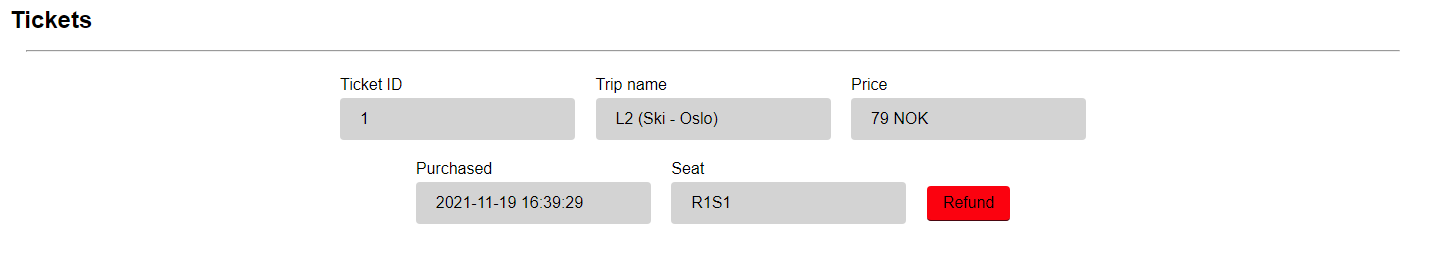
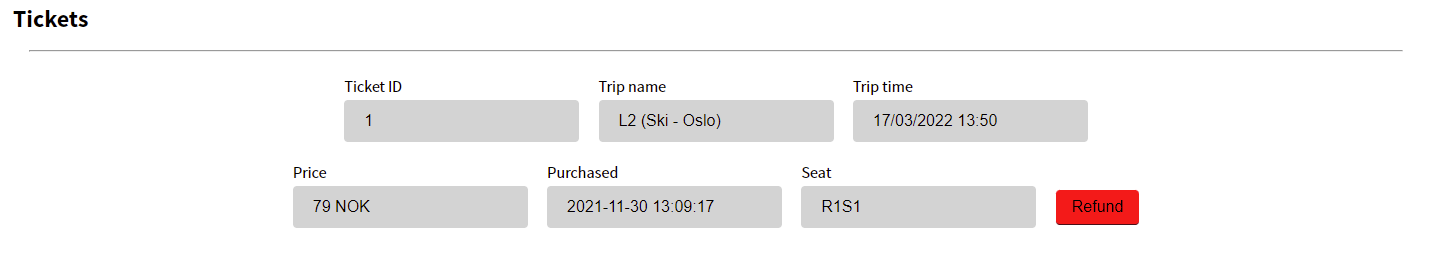
Added datetime to ticket overview

diff --git a/index.js b/index.js
@@ -391,6 +391,20 @@ function placeTickets(tickets) {
             </div>
             `;
 
+        var date_time = tickets.tickets[i].trip_datetime;
+        var date = date_time.split(" ");
+        date = date[0].split("-");
+        date = date[2] + '/' + date[1] + '/' + date[0];
+        var time = date_time.split(" ");
+        time = time[1].split(":");
+        time = time[0] + ':' + time[1];
+        html += `
+            <div class='form-group'>
+                <label for='trip_datetime_` + tickets.tickets[i].ticket_id + `'>Trip time</label>
+                <input type="text" class="form-control" id="trip_datetime_` + tickets.tickets[i].ticket_id + `" name="trip_datetime_` + tickets.tickets[i].ticket_id + `" value="` + date + ' ' + time + `" readonly>
+            </div>
+            `;
+
         html += `
             <div class='form-group'>
                 <label for='ticket_price_nok_` + tickets.tickets[i].ticket_id + `'>Price</label>
@@ -523,7 +537,9 @@ function loadTravel() {
                         var option = document.createElement("option");
                         
                         var timesplit = trips.trips[i].trip_datetime.split(' ');
-                        var date = timesplit[0];
+                        var date = timesplit[0].split("-");
+                        date = date[2] + '/' + date[1] + '/' + date[0];
+
                         var full_time = timesplit[1].split(':');
                         var time = full_time[0] + ':' + full_time[1];
 

diff --git a/api/objects/ticket.php b/api/objects/ticket.php
@@ -26,7 +26,7 @@ class Ticket{
 
         // query to check if email exists
         $query = "SELECT `tickets`.`ticket_id`, `tickets`.`trip_id`, `trips`.`trip_name`, `trips`.`trip_start_location`, `trips`.`trip_end_location`, " .
-                "`tickets`.`user_id`, `tickets`.`ticket_price_nok`, `tickets`.`ticket_purchase_date`, `tickets`.`seat_id`, `seats`.`seat_row`, " .
+                "`trips`.`trip_datetime`, `tickets`.`user_id`, `tickets`.`ticket_price_nok`, `tickets`.`ticket_purchase_date`, `tickets`.`seat_id`, `seats`.`seat_row`, " .
                 "`seats`.`seat_number`, `tickets`.`ticket_returned` " .
                 "FROM `tickets`, `trips`, `seats` " .
                 "WHERE `tickets`.`user_id` = '" . $this->user_id . "' AND `tickets`.`ticket_enabled` = '1' AND `tickets`.`seat_id` = `seats`.`seat_id` " .
@@ -43,13 +43,14 @@ class Ticket{
         $stmt->bindColumn(3, $trip_name);
         $stmt->bindColumn(4, $trip_start_location);
         $stmt->bindColumn(5, $trip_end_location);
-        $stmt->bindColumn(6, $user_id);
-        $stmt->bindColumn(7, $ticket_price_nok);
-        $stmt->bindColumn(8, $ticket_purchase_date);
-        $stmt->bindColumn(9, $seat_id);
-        $stmt->bindColumn(10, $seat_row);
-        $stmt->bindColumn(11, $seat_number);
-        $stmt->bindColumn(12, $ticket_returned);
+        $stmt->bindColumn(6, $trip_datetime);
+        $stmt->bindColumn(7, $user_id);
+        $stmt->bindColumn(8, $ticket_price_nok);
+        $stmt->bindColumn(9, $ticket_purchase_date);
+        $stmt->bindColumn(10, $seat_id);
+        $stmt->bindColumn(11, $seat_row);
+        $stmt->bindColumn(12, $seat_number);
+        $stmt->bindColumn(13, $ticket_returned);
 
         // get number of rows
         $num = $stmt->rowCount();
@@ -67,6 +68,7 @@ class Ticket{
                     'trip_name' => $trip_name,
                     'trip_start_location' => $trip_start_location,
                     'trip_end_location' => $trip_end_location,
+                    'trip_datetime' => $trip_datetime,
                     'user_id' => $user_id,
                     'ticket_price_nok' => $ticket_price_nok,
                     'ticket_purchase_date' => $ticket_purchase_date,
